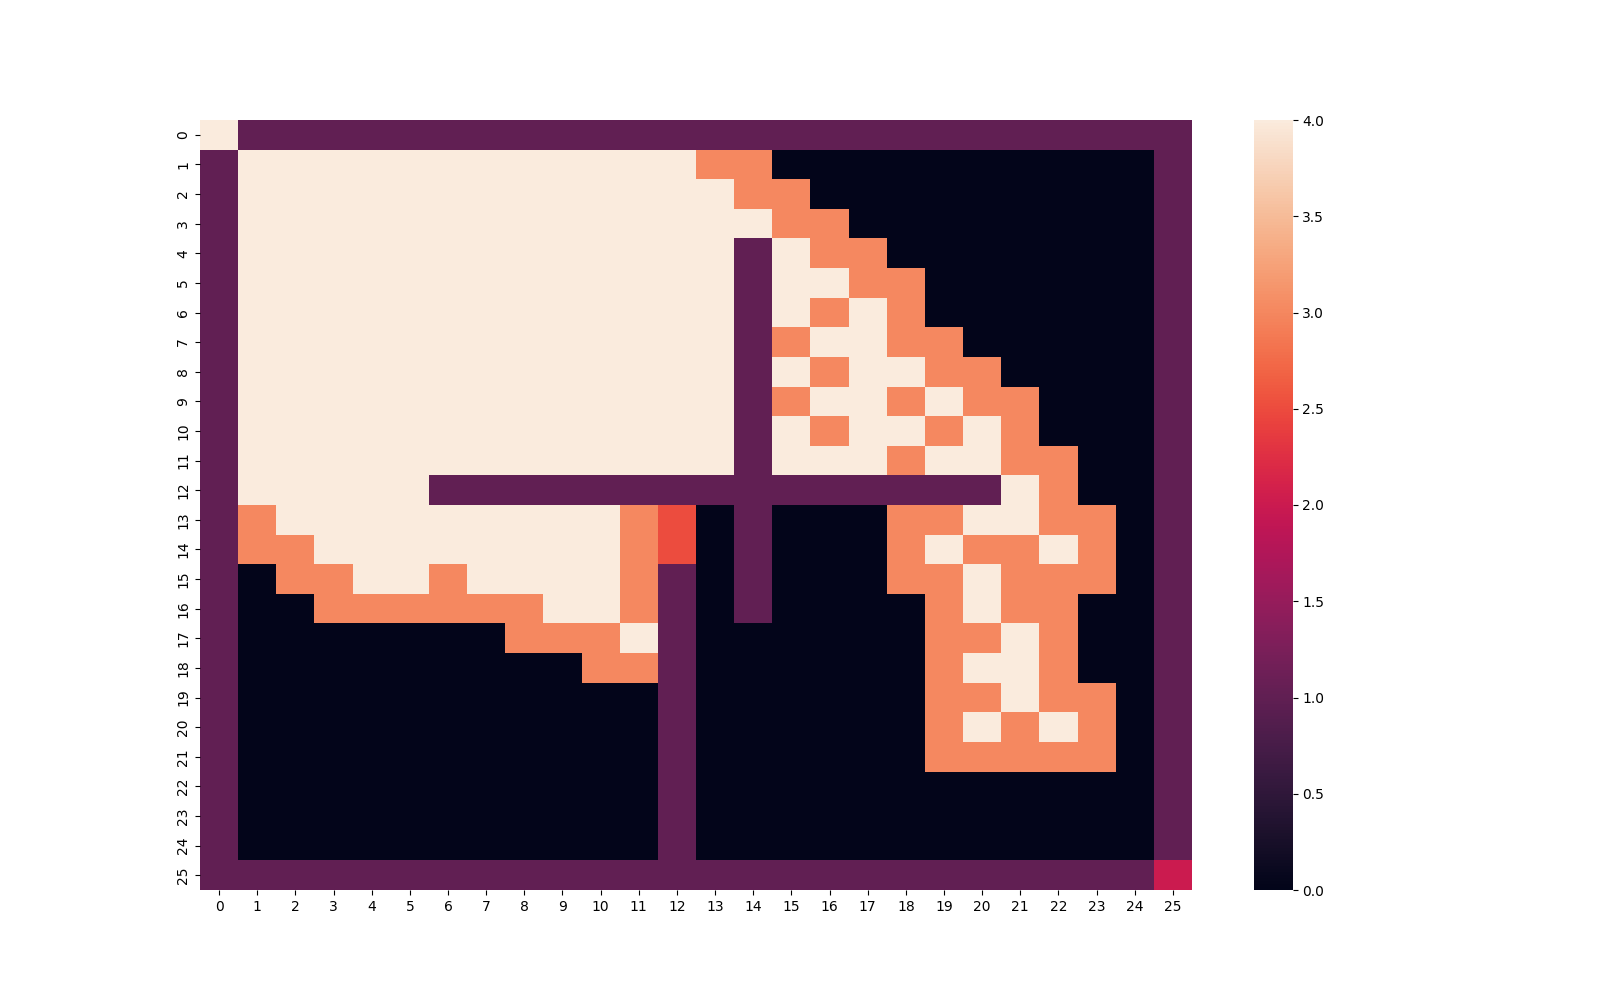
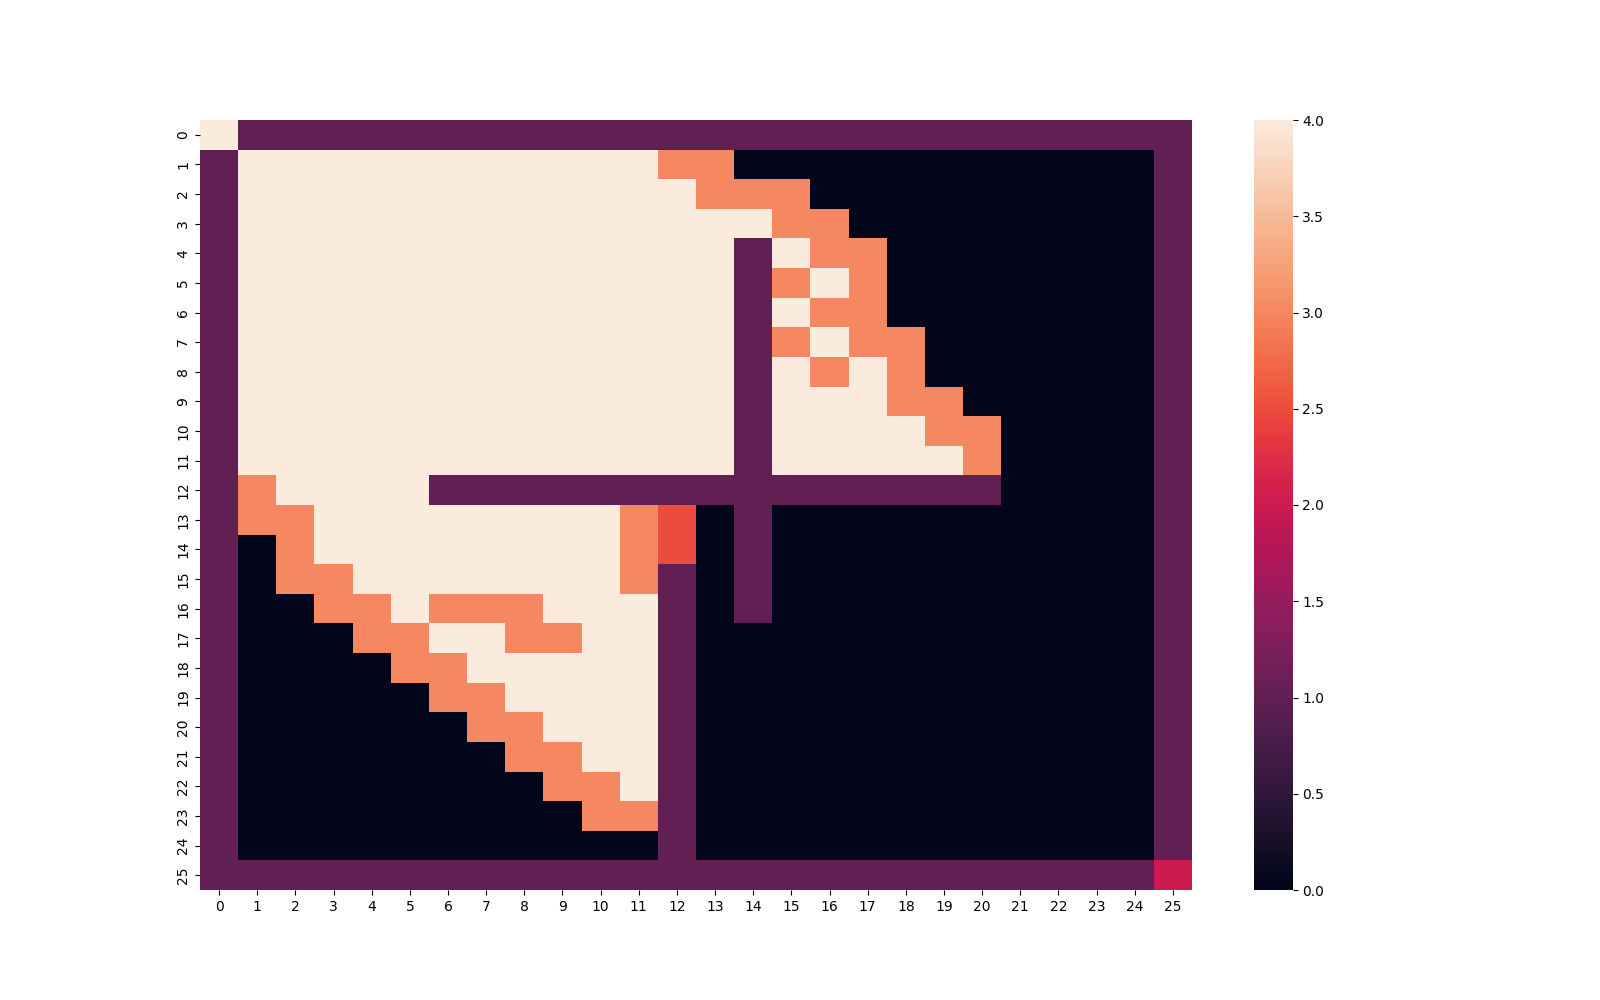
Working with small env

diff --git a/projeto.py b/projeto.py
@@ -128,7 +128,7 @@ def a_star_algo(node_structures, goal):
     #print("\nHEAD -> ", node_map[h])
     #print('q = [', end='')
     # for (i, n) in enumerate(q):
-    #print(f'{node_map[n].pos} {node_map[n].combined_cost}', end=(', ' if i != len(q) - 1 else ']\n'))
+    #print(f'{node_map[n].pos} [{node_map[n].cost_so_far} + {node_map[n].heuristic} = {node_map[n].combined_cost}]', end=(', ' if i != len(q) - 1 else ']\n'))
     #print('done = ', done)
     done.append(h)
     node_map[h].done = True
@@ -139,6 +139,7 @@ def a_star_algo(node_structures, goal):
         print(node_map[h].path)
         visualize_env(node_structures.get_graph_map_list(
             node_map[h].path), 'final_map')
+
         return
 
     #print(f'head {h} -> {node_map[h].cost_so_far}')
@@ -153,16 +154,18 @@ def a_star_algo(node_structures, goal):
         node = node_map[pos]
         #print(f'{node.pos} actual move -> {node.name not in [FRONTEIRA, BARREIRA] and node.pos not in done}')
         if node.name not in [FRONTEIRA, BARREIRA] and node.pos not in done:
-            node.visited = True
             #print(f'{node.name} {node.pos}: {node.cost_so_far} + {node.heuristic} = {node.combined_cost} -> ', end='')
-            node.cost_so_far = min(
-                node.cost_so_far, node_map[h].cost_so_far + (3 if node.name == AGUA else 1))
-            #print(f'{node.cost_so_far} + {node.heuristic} = {node.combined_cost} ')
-            node.path = node_map[h].path + [node.pos]
-            if node.pos not in q:
+            if node.cost_so_far > node_map[h].cost_so_far + (3 if node.name == AGUA else 1):
+                node.cost_so_far = node_map[h].cost_so_far + \
+                    (3 if node.name == AGUA else 1)
+                #print(f'{node.cost_so_far} + {node.heuristic} = {node.combined_cost} ')
+                node.path = node_map[h].path + [node.pos]
+            if not node.visited:
                 q.append(node.pos)
+            node.visited = True
 
     node_structures.q = list(set(q))
+    node_structures.q.sort(key=lambda x: node_map[x].heuristic)
     node_structures.q.sort(key=lambda x: node_map[x].combined_cost)
     node_structures.counter += 1
     a_star_algo(node_structures, goal)
